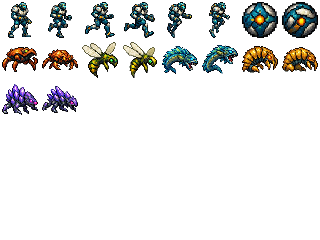
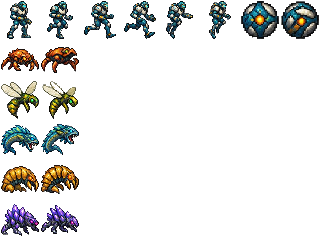
Add files via upload

diff --git a/game.js b/game.js
@@ -60,7 +60,7 @@ function updateVisualEvents(id,pX,pY){
  visualPrev={room:id,enemyCount:ec,bossHp:bh,energy,projectiles:pc};
 }
 function drawEnemySprite(x,y,t,frame){
- if(actorAtlasReady&&t>=0&&t<5){const f=Math.floor(visualTime*5+frame)%2;ctx.drawImage(actorAtlas,(f%2)*40,(t+1)*40,40,40,x-4,y-5,32,32);return}
+ if(actorAtlasReady&&t>=0&&t<5){const f=Math.floor(visualTime*5+frame)%2;ctx.drawImage(actorAtlas,f*40,(t+1)*40,40,40,x-8,y-8,40,40);return}
  const bob=Math.sin(visualTime*5+frame*1.7),step=Math.floor(visualTime*9+frame)%2;
  if(t===0){ // plated cave scuttler
   rect(x+3,y+7+bob,18,8,'#a86c45');rect(x+6,y+3+bob,12,7,'#d18b54');rect(x+8,y+4+bob,8,2,'#efb477');
@@ -78,8 +78,7 @@ function drawEnemySprite(x,y,t,frame){
 function drawPlayerSprite(px,py,morph,moving,airborne,run,facing,aim){
  if(actorAtlasReady){
   const frame=morph?6+Math.floor(visualTime*8)%2:airborne?(call('eod_player_vy')<0?4:5):moving?1+(run%3):0;
-  ctx.save();if(facing){ctx.drawImage(actorAtlas,frame*40,0,40,40,px-8,py-6,32,32)}else{ctx.translate(px+8,0);ctx.scale(-1,1);ctx.drawImage(actorAtlas,frame*40,0,40,40,-16,py-6,32,32)}ctx.restore();
-  if(!morph){const aimDx=[4,3,0,-3,-4,-3,0,3][aim]||0,aimDy=[0,-3,-4,-3,0,3,4,3][aim]||0,gunX=px+8+aimDx,gunY=py+10+aimDy;rect(gunX-2,gunY-1,5,3,'#b5d4d2');rect(gunX+(aimDx>=0?2:-3),gunY,4,2,'#e8f8f2')}
+  ctx.save();if(facing){ctx.drawImage(actorAtlas,frame*40,0,40,40,px-12,py-10,40,40)}else{ctx.translate(px+8,0);ctx.scale(-1,1);ctx.drawImage(actorAtlas,frame*40,0,40,40,-20,py-10,40,40)}ctx.restore();
   return;
  }
  if(morph){const roll=Math.floor(visualTime*10)%2;glow(px+8,py+9,10,'rgba(90,220,230,.16)');rect(px+1,py+4,15,11,'#c8e0df');rect(px+3,py+2,11,4,'#8fb8be');rect(px+5,py+7,7,5,'#365d6c');rect(px+4,py+13,9,2,'#6f9ca4');rect(px+(facing?13:0),py+8,3,4,'#efb66e');if(roll)rect(px+6,py+3,5,1,'#efffff');return}

diff --git a/sw.js b/sw.js
@@ -1,4 +1,4 @@
-const CACHE = 'eod-crash-basin-mobile-v9';
+const CACHE = 'eod-crash-basin-mobile-v10';
 const ASSETS = ['./', './index.html', './game.js', './eod.wasm', './manifest.webmanifest', './icon.svg', './assets/actor_atlas.png', './assets/burrower_atlas.png'];
 self.addEventListener('install', event => {
   event.waitUntil(caches.open(CACHE).then(cache => cache.addAll(ASSETS)));
